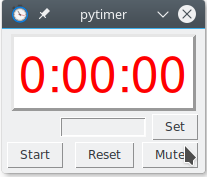
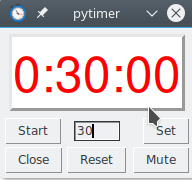
changed frame from place to grid

Changed region(s): [[0.0, 0.0, 1.0, 1.0], [0.0938, 0.678, 0.25, 0.7627], [0.1875, 0.0282, 0.25, 0.113]]

diff --git a/pytimer_nopresets.py b/pytimer_nopresets.py
@@ -319,46 +319,39 @@ if len(sys.argv) > 1:
 
 root = tk.Tk()
 root.wm_title(WINDOW_TITLE)
-root.wm_geometry ("-100-100")
+root.wm_geometry ("-30-80")
 root.resizable(width=False, height=False)
-root.geometry('{}x{}'.format(195, 140))
+#root.geometry('{}x{}'.format(195, 200))
 
 img = PhotoImage(file='/home/swipe/bin/pytimer/pytimer_icon.png')
 root.tk.call('wm', 'iconphoto', root._w, img)
+
+mainframe = tk.Frame(root, padx="3",pady="3")
+mainframe.grid(column=0, row=0, sticky=(N, W, E, S))
+mainframe.columnconfigure(0, weight=1)
+mainframe.rowconfigure(0, weight=1)
 
 time_str = tk.StringVar()
 # create the time display label, give it a large font
 # label auto-adjusts to the font
 label_font = ('helvetica', 37)
 tk.Label(root, textvariable=time_str, font=label_font, bg='white',
-         fg='red', relief='raised', bd=3).pack(fill='x', padx=5, pady=5)
+         fg='red', relief='raised', bd=3).grid(padx=5, pady=5)
 time_str.set(formatter(MINUTES * 60))
 root.update()
-# create buttons
-# pack() positions the buttons below the label
-#tk.Button(root, text='Start', command=count_down).pack(side="left")
-tk.Button(root, text='Start', command=count_down).place(relx=.0, rely=.90, anchor="w")
-#tk.Button(root, text='Start', command=count_down).pack(side=LEFT)
-tk.Button(root, text='Reset', command=reset).place(relx=.50, rely=.90, anchor="c")
-#tk.Button(root, text='Reset', command=reset).pack(side=BOTTOM)
 
-#tk.Button(root, text='Close', command=root.destroy).place(relx=.0, rely=.90, anchor="w")
-tk.Button(root, text='Mute', command=mute).place(relx=.99, rely=.90, anchor="e")
-#tk.Button(root, text='Mute', command=mute).pack(side=RIGHT)
-
-'''
-# Preset buttons
-tk.Button(root, text='5 min', command=five).place(relx=.48, rely=.60, anchor="c")
-tk.Button(root, text='10min', command=ten).place(relx=.48, rely=.75, anchor="c")
-tk.Button(root, text='15min', command=fifteen).place(relx=.99, rely=.75, anchor="e")
-tk.Button(root, text='7 min', command=seven).place(relx=.99, rely=.60, anchor="e")
-tk.Button(root, text='22min', command=twentytwo).place(relx=.48, rely=.90, anchor="c")
-'''
 
 # Input box
-entry = Entry(root, width=10)
-entry.pack(side=TOP,padx=0,pady=1)
-tk.Button(root, text='Set', command=onset).place(relx=.99, rely=.70, anchor="e")
+entry = Entry(root, width=5)
+entry.grid(column=0, row=2, pady=5, sticky=(N))
+tk.Button(root, text='Set', command=onset).grid(column=0, row=2, sticky=(E))
+entry.focus()
+
+# create buttons
+tk.Button(root, text='Start', command=count_down).grid(column=0, row=2, sticky=(W))
+tk.Button(root, text='Reset', command=reset).grid(column=0, row=3, sticky=(N))
+tk.Button(root, text='Close', command=root.destroy).grid(column=0, row=3, sticky=(W))
+tk.Button(root, text='Mute', command=mute).grid(column=0, row=3, sticky=(E))
 
 # start the GUI event loop
 #root.wm_attributes("-topmost", 1)    # always on top
